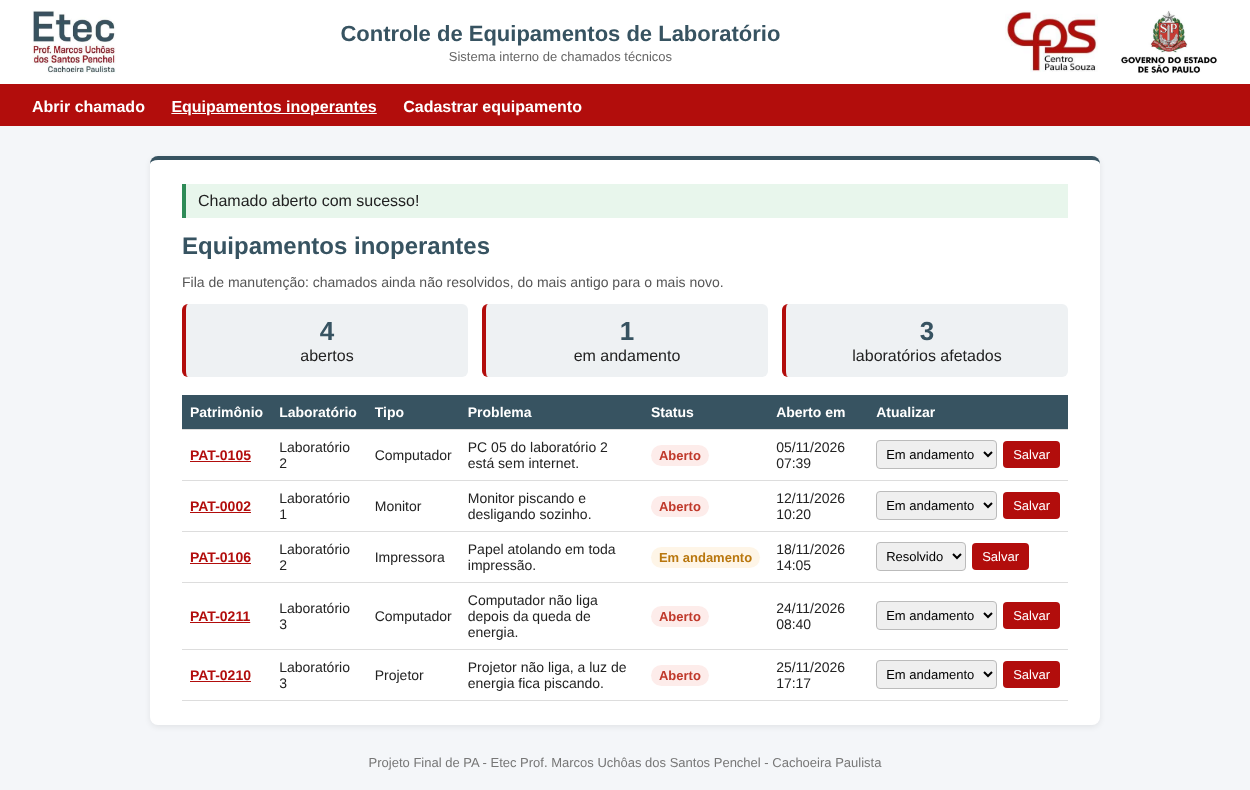
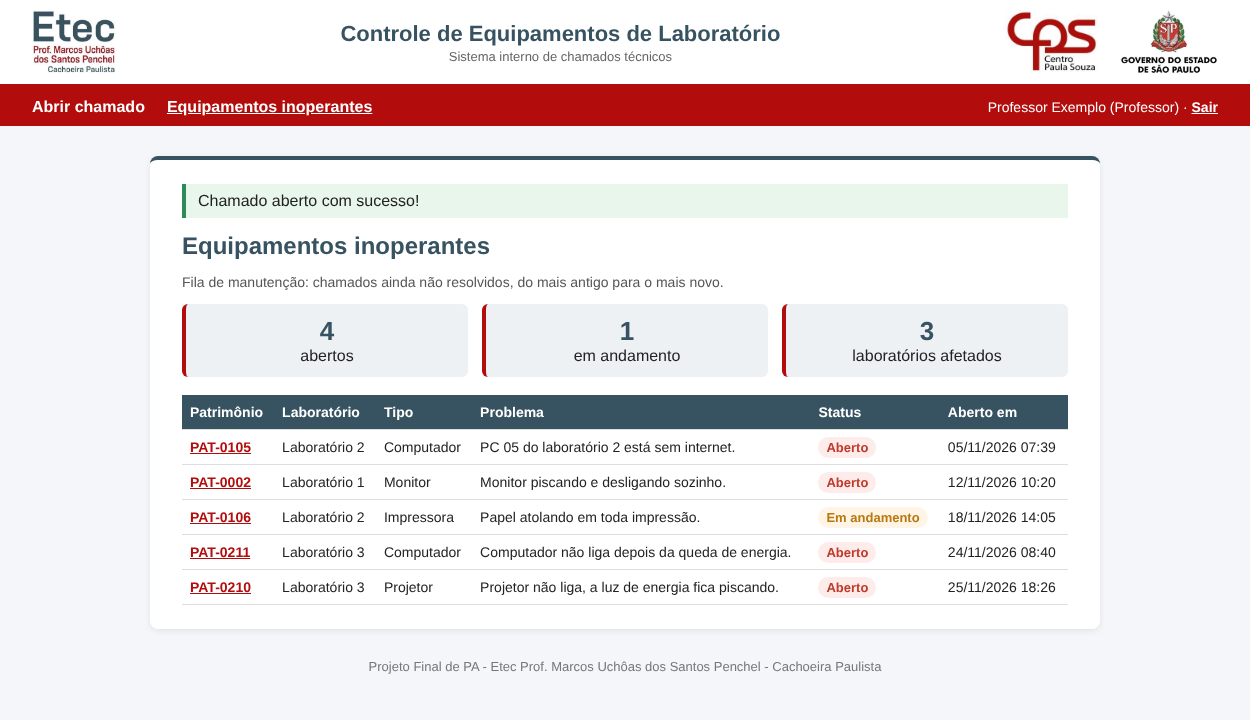
Documentação final: diagramas com usuário, prints atualizados e link do OneDrive
- README atualizado: 17 testes aprovados, Entrega 4 concluída, três tabelas, telas de login e usuários e link do OneDrive
- Diagrama de classes com a classe Usuario e diagrama do banco com a tabela usuario
- Prints do sistema e do manual tirados de novo com o login e os perfis
- Manual do usuário com as seções de login e cadastro de usuários
- Requisitos, roteiro de testes e planilha atualizados (T01 a T17, bugs corrigidos)

diff --git a/conexao.py b/conexao.py
@@ -4,7 +4,7 @@ import mysql.connector
 CONFIG = {
     "host": "localhost",
     "user": "root",
-    "password": "",
+    "password": "Z1x2c3v4",
     "database": "controle_lab"
 }
 

diff --git a/README.md b/README.md
@@ -18,7 +18,7 @@ Desenvolver um sistema web interno para a Etec que permita ao professor abrir ch
 |---------|----------------------|
 | Professor | Abre o chamado escolhendo a máquina e descrevendo o problema |
 | Técnico de Manutenção | Vê o painel de inoperantes, muda o status e consulta o histórico |
-| Administrador | Cadastra os equipamentos dos laboratórios |
+| Administrador | Cadastra os equipamentos dos laboratórios e os usuários do sistema |
 
 ## Integrantes
 
@@ -50,9 +50,10 @@ Os requisitos completos estão em [docs/requisitos.md](docs/requisitos.md) e o p
 |------------|----------------|
 | Python 3 | Linguagem principal do sistema |
 | Flask | Servidor web e páginas do sistema |
-| MySQL | Banco de dados dos equipamentos e chamados |
+| MySQL | Banco de dados dos equipamentos, chamados e usuários |
 | MySQL Workbench | Criação e visualização do banco |
 | mysql-connector-python | Conexão do Python com o MySQL |
+| Werkzeug (vem com o Flask) | Criptografia das senhas |
 | HTML, CSS e Jinja | Estrutura, aparência e modelos das páginas |
 | Git e GitHub | Versionamento e colaboração |
 | Trello | Gestão das tarefas |
@@ -62,7 +63,7 @@ Os requisitos completos estão em [docs/requisitos.md](docs/requisitos.md) e o p
 ```
 projeto-final/
 |-- app.py                 -> servidor Flask e rotas
-|-- models.py              -> classes Equipamento e Chamado
+|-- models.py              -> classes Equipamento, Chamado e Usuario
 |-- conexao.py             -> conexão com o MySQL
 |-- repositorio.py         -> funções que leem e gravam no banco
 |-- teste_models.py        -> testes das classes
@@ -75,7 +76,7 @@ projeto-final/
 |   |-- banco.sql          -> criação do banco e das tabelas
 |   |-- dados_teste.sql    -> equipamentos e chamados de teste
 |   `-- usuarios.sql       -> tabela de usuários e usuários de teste
-`-- docs/                  -> requisitos, diagramas e imagens
+`-- docs/                  -> requisitos, manual, testes, diagramas e imagens
 ```
 
 ## Modelagem
@@ -88,11 +89,11 @@ projeto-final/
 
 ![Diagrama do banco](docs/diagrama_banco.png)
 
-O banco `controle_lab` tem duas tabelas ligadas por chave estrangeira: um equipamento pode ter vários chamados, e todo chamado pertence a um equipamento. O próprio banco impede patrimônio repetido, chamado de equipamento inexistente e status diferente de **Aberto**, **Em andamento** ou **Resolvido**.
+O banco `controle_lab` tem três tabelas. As tabelas `equipamento` e `chamado` são ligadas por chave estrangeira: um equipamento pode ter vários chamados, e todo chamado pertence a um equipamento. A tabela `usuario` é usada no login e guarda apenas a senha criptografada e o perfil de cada pessoa. O próprio banco impede patrimônio repetido, login repetido, chamado de equipamento inexistente e status diferente de **Aberto**, **Em andamento** ou **Resolvido**.
 
 ## Encapsulamento
 
-As classes `Equipamento` e `Chamado` protegem os dados contra alterações acidentais:
+As classes `Equipamento`, `Chamado` e `Usuario` protegem os dados contra alterações acidentais:
 
 | Classe | Atributo / método | Proteção |
 |--------|-------------------|----------|
@@ -139,11 +140,14 @@ As classes `Equipamento` e `Chamado` protegem os dados contra alterações acide
 
 ## Telas
 
+### Login
+![Login](docs/img/manual/0_login.png)
+
 ### Abertura de chamado
 ![Abrir chamado](docs/img/abrir_chamado.png)
 
 ### Painel de equipamentos inoperantes
-![Painel de inoperantes](docs/img/manual/4_status_atualizado.png)
+![Painel de inoperantes](docs/img/inoperantes.png)
 
 ### Cadastro de equipamento
 ![Cadastrar equipamento](docs/img/cadastrar_equipamento.png)
@@ -151,9 +155,12 @@ As classes `Equipamento` e `Chamado` protegem os dados contra alterações acide
 ### Histórico do equipamento
 ![Histórico](docs/img/manual/5_historico.png)
 
+### Usuários (administrador)
+![Usuários](docs/img/manual/8_usuarios.png)
+
 ## Testes
 
-Os testes do sistema estão em [docs/testes.md](docs/testes.md) e na planilha [docs/planilha_equipamentos_e_testes.xlsx](docs/planilha_equipamentos_e_testes.xlsx): 11 testes executados e 11 aprovados.
+Os testes do sistema estão em [docs/testes.md](docs/testes.md) e na planilha [docs/planilha_equipamentos_e_testes.xlsx](docs/planilha_equipamentos_e_testes.xlsx): 17 testes executados e 17 aprovados. Os dois problemas encontrados nos testes (B01 e B02) foram corrigidos e retestados.
 
 ## Andamento
 
@@ -162,9 +169,10 @@ Os testes do sistema estão em [docs/testes.md](docs/testes.md) e na planilha [d
 | 1 | Planejamento, requisitos, banco de dados, classes e telas em HTML | Concluída |
 | 2 | Flask, conexão com o banco, cadastro de equipamentos, README e diagramas | Concluída |
 | 3 | Integração: formulário gravando no banco, painel com dados reais, status, histórico e manual | Concluída |
-| 4 | Testes, correções, documentação final e ensaios da apresentação | Em andamento |
+| 4 | Testes, correções, login com perfis e documentação final | Concluída |
 
 ## Links
 
+- Repositório no GitHub: https://github.com/VitorSSPB/projeto-final
 - Quadro do Trello: https://trello.com/b/rLoEL3xl/projeto-final
-- Pasta do OneDrive: (em construção)
+- [Pasta do projeto no OneDrive](https://centropaulasouza-my.sharepoint.com/:f:/r/personal/vitor_barbosa11_aluno_cps_sp_gov_br/_layouts/15/onedrive.aspx?id=%2Fpersonal%2Fvitor%5Fbarbosa11%5Faluno%5Fcps%5Fsp%5Fgov%5Fbr%2FDocuments%2FProjeto%20Final%20%2D%20PA&share=cgp36Z3e1UHfS54ww24fpzIMEgUCr7N1nYwhn43BqjsXqwKgqA)

diff --git a/docs/manual_usuario.md b/docs/manual_usuario.md
@@ -20,8 +20,8 @@ O sistema tem as telas abaixo, acessadas pelo menu vermelho no topo:
 
 | Tela | Quem usa | Para que serve |
 |------|----------|----------------|
-| Abrir chamado | Professor | Avisar que um equipamento está com defeito |
-| Equipamentos inoperantes | Técnico de manutenção | Ver a fila de manutenção e atualizar o status dos chamados |
+| Abrir chamado | Todos os perfis | Avisar que um equipamento está com defeito |
+| Equipamentos inoperantes | Todos os perfis | Ver a fila de manutenção (só o técnico e o administrador atualizam o status) |
 | Cadastrar equipamento | Administrador | Incluir novos computadores e periféricos |
 | Usuários | Administrador | Cadastrar professores, técnicos e administradores |
 
@@ -48,7 +48,7 @@ O sistema grava o chamado com a data e a hora atuais e o status **Aberto**, e mo
 
 ## 2. Como atender um chamado (técnico de manutenção)
 
-1. Clique em **Equipamentos inoperantes** no menu.
+1. Entre com um usuário de perfil **Técnico** (ou **Administrador**) e clique em **Equipamentos inoperantes** no menu. Para os professores, o painel aparece sem a coluna **Atualizar**.
 2. O painel mostra todos os chamados ainda não resolvidos, do mais antigo para o mais novo. No topo, há um resumo com a quantidade de chamados abertos, em andamento e de laboratórios afetados.
 3. Na coluna **Atualizar**, escolha o novo status do chamado e clique em **Salvar**:
    - **Em andamento:** o técnico começou o conserto.

diff --git a/docs/testes.md b/docs/testes.md
@@ -1,12 +1,12 @@
 # Roteiro de Testes - Controle de Equipamentos de Laboratório
 
-Responsável: Rodrigo
-Data da execução: 25/11/2026
-Versão testada: Entrega 3 (chamado gravado no banco, status no painel e histórico)
+- **Responsável:** Rodrigo
+- **Data da execução:** 25/11/2026
+- **Versão testada:** Entregas 3 e 4 (chamado gravado no banco, status no painel, histórico e login com perfis)
 
 ## Como os testes foram feitos
 
-Cada teste foi executado no sistema rodando pelo Flask (`python app.py`), com o banco carregado pelos scripts `sql/banco.sql` e `sql/dados_teste.sql`. Para cada caso, foi feita a ação descrita e comparado o resultado com o esperado.
+Cada teste foi executado no sistema rodando pelo Flask (`python app.py`), com o banco carregado pelos scripts `sql/banco.sql`, `sql/dados_teste.sql` e `sql/usuarios.sql`. Para cada caso, foi feita a ação descrita e comparado o resultado com o esperado.
 
 ## Casos de teste
 

diff --git a/docs/requisitos.md b/docs/requisitos.md
@@ -33,4 +33,6 @@
 
 **Extra, se der tempo:** RF06.
 
+**Extras incluídos na Entrega 4:** RF07, RF08 e RNF07 (login com perfis e senhas criptografadas).
+
 **Situação atual:** todos os requisitos funcionais e não funcionais foram implementados até a Entrega 4.
